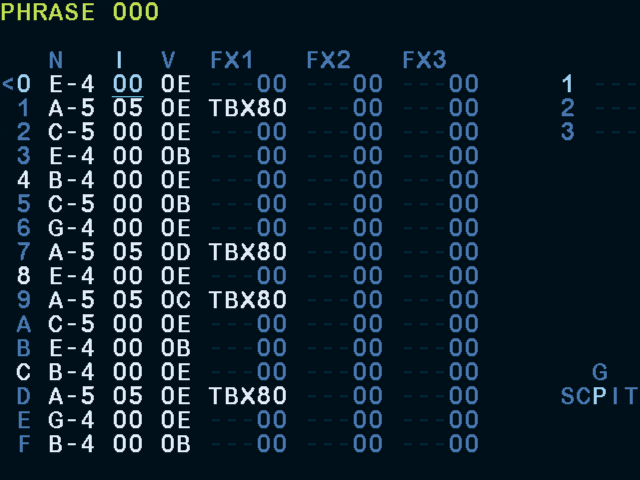
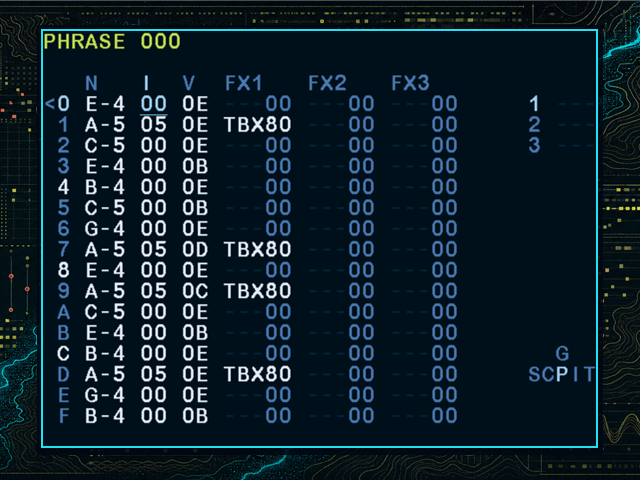
release: prepare PatchNomad day-one checkpoint
Rename Mobile Groove to PatchNomad, refresh the PortMaster package and branding, fix the gptokeyb launcher, and document fork maintenance and hardware validation.

diff --git a/tracker/src/version.cpp b/tracker/src/version.cpp
@@ -1,5 +1,5 @@
 #include "version.h"
 
-const char* appTitle = "Mobile Groove";
+const char* appTitle = "PatchNomad";
 const char* appVersion = "0.1.0-dev";
 const char* appBuild = __DATE__;

diff --git a/docs/fork-maintenance.md b/docs/fork-maintenance.md
@@ -1,0 +1,179 @@
+# Maintenir le fork PatchNomad
+
+PatchNomad part de ChipNomad, mais les deux projets ne poursuivent plus exactement le même objectif. ChipNomad va migrer une grande partie de son code vers des classes C++ et refaire son moteur d'interface. PatchNomad ajoute de son côté Braids, puis probablement un sampler PCM, avec une cible matérielle précise sous PortMaster.
+
+Il ne faut donc pas chercher à garder les deux dépôts identiques. Cette stratégie produirait des conflits fréquents et laisserait l'architecture de PatchNomad dépendre des décisions prises pour un autre projet. ChipNomad reste une source utile de correctifs et d'idées. PatchNomad possède désormais son code, son format de projet et son calendrier.
+
+## Ce que le fork conserve
+
+Les limites suivantes permettent de savoir qui possède quoi.
+
+| Zone | Politique |
+| --- | --- |
+| `chipnomad_lib/external/mutable/` | Snapshot figé aux commits documentés. Pas de mise à jour périodique. |
+| `chipnomad_lib/synth/BraidsVoice` | Code PatchNomad. C'est la frontière entre Braids et le reste du moteur. |
+| Moteur audio, instruments et format `.cnm` | Code PatchNomad, même si une partie vient historiquement de ChipNomad. |
+| Interface et séquenceur | Examiner les changements de ChipNomad, puis reprendre seulement ceux qui sont utiles. |
+| SDL2, entrées, fichiers et cibles de compilation | Bons candidats aux correctifs venus de ChipNomad, à condition de les tester sur Windows et PortMaster. |
+| Packaging PortMaster | Code PatchNomad. Les changements du standard PortMaster priment sur les habitudes historiques de ChipNomad. |
+
+Cette séparation évite de mélanger le DSP Mutable, qui est stable, avec les parties encore mouvantes du tracker.
+
+## Relier le dépôt amont
+
+Le dépôt PatchNomad doit avoir deux remotes : `origin` pour le fork public et `upstream` pour ChipNomad.
+
+```sh
+git remote add upstream https://github.com/Megus/chipnomad-tracker.git
+git fetch upstream
+git remote -v
+```
+
+Si `upstream` existe déjà, il suffit de lancer `git fetch upstream`. Ne jamais fusionner `upstream/main` directement dans `main` par habitude.
+
+Le commit ChipNomad utilisé au départ doit être inscrit dans le registre de synchronisation situé à la fin de ce document. S'il existe un commit local qui correspond exactement à cette base, on peut aussi le marquer avec un tag :
+
+```sh
+git tag chipnomad-base-YYYYMMDD <commit-local>
+```
+
+Si l'import initial contient déjà des modifications PatchNomad, ne pas fabriquer un faux tag de base. Le SHA amont dans le registre suffit.
+
+## Examiner les changements de ChipNomad
+
+Une revue mensuelle ou avant une release est suffisante. Suivre chaque commit en temps réel n'apporte rien au projet.
+
+```sh
+git fetch upstream
+git log --oneline --decorate <dernier-sha-amont>..upstream/main
+git diff --stat <dernier-sha-amont>..upstream/main
+```
+
+Classer les changements avant d'écrire du code :
+
+1. Les corrections de crash, de corruption de projet, d'audio ou de portabilité méritent une revue immédiate.
+2. Les changements du format `.cnm` doivent être étudiés, même s'ils ne sont pas repris, afin de connaître les incompatibilités futures.
+3. Les améliorations d'interface peuvent être réimplémentées si elles conviennent au petit écran et aux contrôles de PatchNomad.
+4. Les refontes C++ ne sont pas reprises uniquement pour rester proche de l'amont. Elles doivent résoudre un problème rencontré dans PatchNomad.
+5. Les renommages, déplacements de fichiers et nettoyages sans effet visible sont généralement ignorés.
+
+Un commit ignoré n'est pas une dette. Il répond souvent à une contrainte propre à ChipNomad.
+
+## Importer un correctif
+
+Chaque lot de synchronisation vit dans une branche courte créée depuis un `main` propre et fonctionnel.
+
+```sh
+git switch main
+git switch -c sync/chipnomad-YYYYMMDD
+git cherry-pick -x <sha-amont>
+```
+
+L'option `-x` conserve l'origine du commit dans le message. Pour un petit correctif qui s'applique proprement, le cherry-pick est préférable.
+
+Quand le code amont a été réécrit autour de nouvelles classes et que le cherry-pick traîne toute cette architecture avec lui, reprendre seulement le comportement corrigé. Le message du commit local doit alors citer le SHA amont et expliquer en une phrase pourquoi le correctif a été adapté.
+
+Exemple :
+
+```text
+fix: preserve empty project titles when loading
+
+Adapted from ChipNomad <sha>. The upstream implementation depends on the new
+Project class, so this keeps the fix in PatchNomad's current parser.
+```
+
+Une synchronisation ne doit pas mélanger un correctif amont et une nouvelle fonctionnalité PatchNomad. Deux changements séparés sont plus simples à tester et à annuler.
+
+## Résoudre les conflits
+
+La résolution doit préserver le comportement de PatchNomad, pas reproduire la forme du nouveau code ChipNomad.
+
+Quelques zones demandent une revue manuelle :
+
+- allocation et destruction de `ChipNomadState` et des objets `BraidsVoice` ;
+- thread audio SDL et données partagées avec l'interface ;
+- routage entre instruments AY, Braids et futurs samples ;
+- chargement et sauvegarde des projets ;
+- conversion des événements clavier et manette ;
+- chemins de données sous Windows, Linux et PortMaster.
+
+Ne pas accepter automatiquement un côté entier du conflit dans ces fichiers. Lire le flux complet, vérifier les appelants, puis faire le plus petit changement qui conserve les deux comportements nécessaires.
+
+Si un correctif amont exige plusieurs jours de migration C++, fermer la branche de synchronisation et ouvrir une tâche distincte. Une urgence de synchronisation ne doit pas décider de l'architecture du fork.
+
+## Protéger le format de projet
+
+Le format `.cnm` est le contrat le plus important. Une refonte interne ne justifie pas de casser les morceaux existants.
+
+Les règles sont les suivantes :
+
+- les anciens projets ChipNomad doivent continuer à se charger ;
+- un champ absent reçoit une valeur par défaut sûre ;
+- un nouveau champ PatchNomad doit être ignoré proprement par les anciennes versions lorsque le format texte le permet ;
+- une modification incompatible exige une nouvelle version de format et un chemin de migration ;
+- les fichiers de test des anciennes versions restent dans le dépôt ;
+- charger puis sauvegarder un projet ne doit pas supprimer des données inconnues sans avertissement.
+
+Si ChipNomad change son format, ajouter au moins un exemple amont récent aux tests avant de prétendre à la compatibilité. PatchNomad n'a pas besoin d'écrire exactement le même format que toutes les futures versions de ChipNomad, mais il doit annoncer clairement la limite.
+
+## Garder Mutable Instruments figé
+
+Braids et les fichiers stmlib utilisés par PatchNomad sont des snapshots, pas des dépendances vivantes. Leurs commits sont déjà épinglés dans le README.
+
+On ne modifie pas directement `external/mutable` pour adapter le tracker. Les adaptations vivent dans `BraidsVoice` ou dans le mixeur PatchNomad. Cette règle garde le DSP d'origine reconnaissable et simplifie les comparaisons avec la source.
+
+Une modification du snapshot ne se justifie que pour :
+
+- corriger un bug DSP reproduit par un test ;
+- réparer un problème de compilation sur une cible prise en charge ;
+- retirer du code inutilisé après avoir vérifié les licences et les symboles liés.
+
+Dans ce cas, isoler le patch dans un commit dédié, noter le fichier d'origine et ajouter un test. Il n'y a pas de raison de surveiller Mutable Instruments à chaque synchronisation ChipNomad.
+
+## Validation minimale
+
+Avant une synchronisation, les tests doivent passer sur `main`. Après l'import, exécuter au minimum depuis `tracker` :
+
+```sh
+make test
+make windows
+```
+
+Un changement limité au packaging PortMaster ne demande pas de refaire tous les tests DSP, mais le ZIP final doit être construit et vérifié :
+
+```sh
+make -f Makefile.portmaster PortMaster-deploy
+unzip -t ../releases/patchnomad.zip
+```
+
+Sur RG353V, vérifier les contrôles, la lecture, l'arrêt, la sauvegarde et la sortie du programme. Un changement audio doit aussi être testé avec un projet AY, un projet Braids et un projet hybride. Les mesures de charge se font sur la console, pas seulement sur le PC.
+
+Tout bug amont importé doit laisser derrière lui un petit test qui échoue sans le correctif. Les changements triviaux de documentation ou de packaging n'en ont pas besoin.
+
+## Publier la synchronisation
+
+Une fois les tests terminés :
+
+1. mettre à jour le registre ci-dessous ;
+2. relire le diff sans tenir compte de l'intention du commit amont ;
+3. fusionner la branche dans `main` sans réécrire l'historique public ;
+4. supprimer la branche de synchronisation ;
+5. garder le SHA amont dans les commits adaptés ou cherry-pickés.
+
+Ne jamais rebaser le `main` public de PatchNomad sur ChipNomad. Après plusieurs releases, les deux historiques auront trop divergé et le rebase rendrait les contributions et les rapports de bugs difficiles à suivre.
+
+## Registre de synchronisation
+
+Ajouter une ligne à chaque revue, y compris lorsqu'aucun commit n'est repris. Cela évite de relire plusieurs fois le même intervalle.
+
+| Date | SHA ChipNomad examiné | Commits repris | Décision |
+| --- | --- | --- | --- |
+| YYYY-MM-DD | `<sha>` | aucun ou liste des SHA | Base initiale, correctifs repris, ou changements ignorés avec motif court |
+
+Le dernier SHA examiné devient le point de départ de la prochaine revue. Une ligne peut simplement dire que la refonte C++ n'apporte pas encore de correctif nécessaire à PatchNomad.
+
+## Quand cesser de synchroniser
+
+À mesure que les architectures divergent, la revue commit par commit finira par coûter plus cher qu'elle ne rapporte. À ce stade, consulter les releases et les rapports de bugs de ChipNomad suffit. Une bonne idée peut toujours être réimplémentée localement sans tenter de rapprocher les arborescences.
+
+Le fork reste en bonne santé si ses projets sont lisibles, ses tests passent et ses utilisateurs peuvent migrer depuis la base ChipNomad annoncée. Le nombre de commits partagés avec l'amont n'est pas un indicateur utile.

diff --git a/docs/development-notes.md b/docs/development-notes.md
@@ -3,7 +3,7 @@
 ## Braids integration
 
 - Braids exposes 47 production models, indexed from 0 to 46. `QUESTION_MARK` is not part of the accessible set.
-- The original DSP and lookup tables assume a 96 kHz render rate. Mobile Groove therefore uses 96 kHz until measurements on the RG353V justify a resampling path.
+- The original DSP and lookup tables assume a 96 kHz render rate. PatchNomad therefore uses 96 kHz until measurements on the RG353V justify a resampling path.
 - One `BraidsVoice` belongs to each tracker track. Voices are monophonic, while AY and Braids instruments can coexist in one song.
 - Percussive models from `STRUCK_BELL` through `SNARE` keep Braids' internal `STRIKE` decay. Tonal models use the added audio-rate ADSR.
 - Braids must bypass AY register output. Treating every non-empty instrument as AY caused invalid register work until the AY path was explicitly restricted to AY1, AY2 and AYSample.
@@ -30,16 +30,16 @@ make -f Makefile.portmaster PortMaster
 make -f Makefile.portmaster PortMaster-deploy
 ```
 
-The first command creates `tracker/build/portmaster/mobilegroove.aarch64`. The second creates `releases/mobilegroove.zip` with the current PortMaster directory layout.
+The first command creates `tracker/build/portmaster/patchnomad.aarch64`. The second creates `releases/patchnomad.zip` with the current PortMaster directory layout.
 
 The release build uses LTO. It takes about two minutes when the repository lives under `/mnt/c`, but produces a stripped binary of roughly 415 KiB. The current binary requires glibc 2.27 and links dynamically to SDL2, libstdc++, libgcc, libm and libc. SDL2 is not bundled because PortMaster and the target firmware provide it.
 
 Useful checks:
 
 ```sh
-file tracker/build/portmaster/mobilegroove.aarch64
-aarch64-linux-gnu-readelf -d tracker/build/portmaster/mobilegroove.aarch64
-unzip -t releases/mobilegroove.zip
+file tracker/build/portmaster/patchnomad.aarch64
+aarch64-linux-gnu-readelf -d tracker/build/portmaster/patchnomad.aarch64
+unzip -t releases/patchnomad.zip
 ```
 
 References: [PortMaster build environments](https://portmaster.games/build-environments.html) and [PortMaster packaging guide](https://portmaster.games/packaging.html).

diff --git a/tracker/packaging/portmaster/README.md b/tracker/packaging/portmaster/README.md
@@ -1,6 +1,6 @@
-# Mobile Groove
+# PatchNomad
 
-Mobile Groove is a handheld tracker based on ChipNomad. It combines AY/YM synthesis with the 47 accessible Mutable Instruments Braids models.
+PatchNomad is a handheld tracker based on ChipNomad. It combines AY/YM synthesis with the 47 accessible Mutable Instruments Braids models.
 
 ## Controls
 

diff --git a/CHANGELOG.md b/CHANGELOG.md
@@ -1,6 +1,6 @@
 # ChipNomad changelog
 
-## Mobile Groove - unreleased
+## PatchNomad - unreleased
 
 - Added the 47 accessible Mutable Instruments Braids models as one instrument type.
 - Added one monophonic Braids voice per tracker track with AY/Braids mixing.
